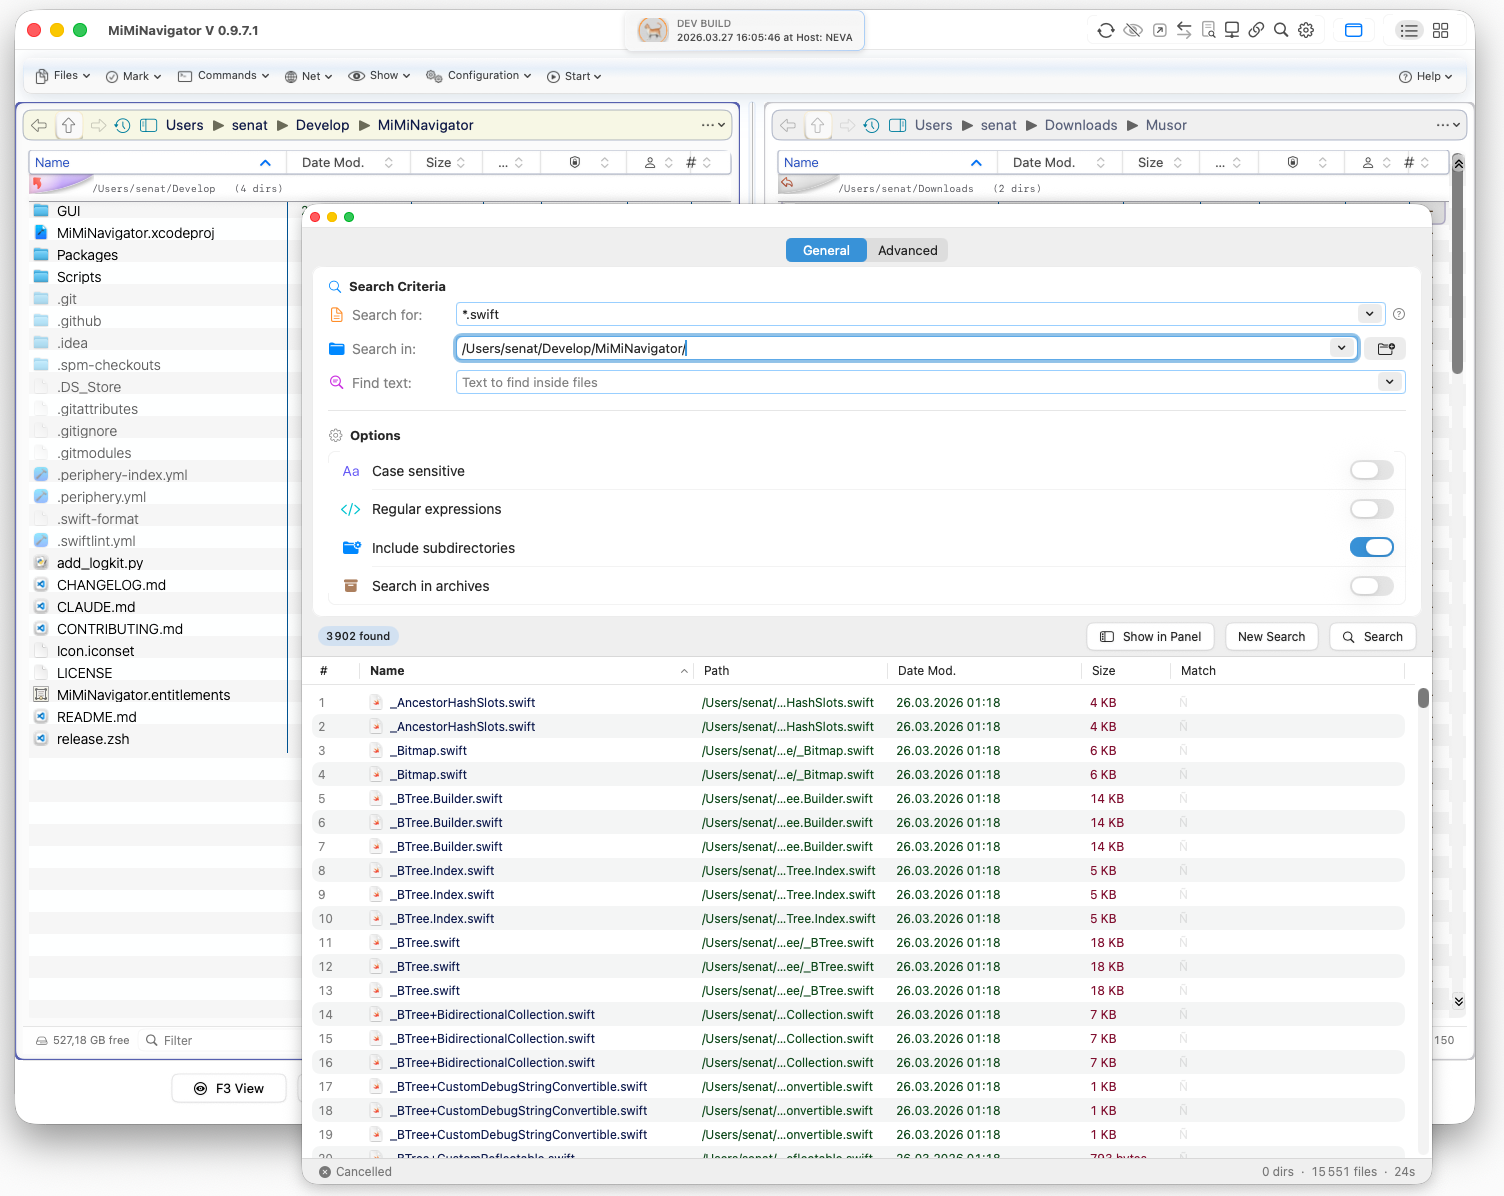
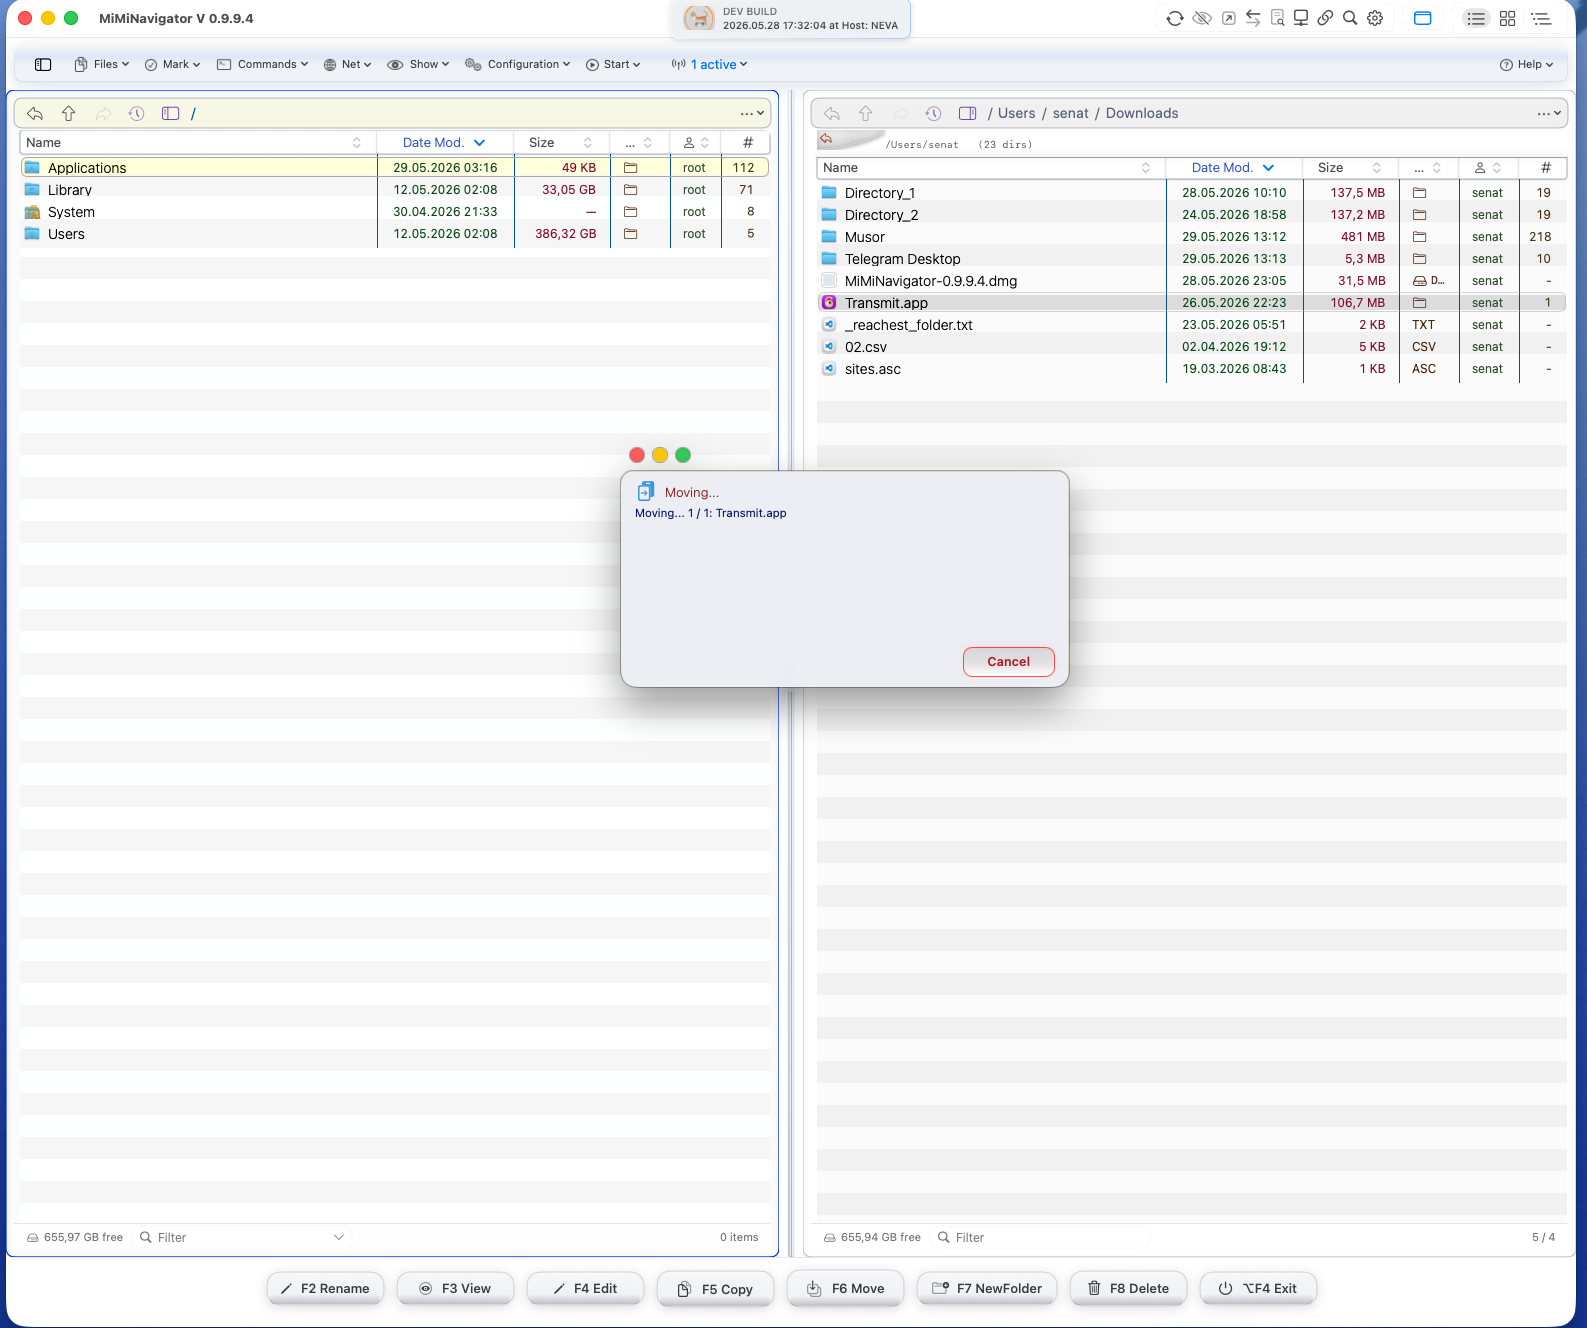
fix breadcrumb truncation priority and cleanup counters; shrink segments from original names, preserve useful edge context while paths compress, refresh preview/version assets, and make strange-attr cleanup counters zsh-safe

diff --git a/GUI/Sources/BreadCrumbNav/BreadCrumbView+Segments.swift b/GUI/Sources/BreadCrumbNav/BreadCrumbView+Segments.swift
@@ -52,14 +52,18 @@ extension BreadCrumbView {
         }
         var used = totalWidth
         while used > budgetForText {
-            guard let idx = segs.enumerated().filter({ $0.element.display.count > 3 }).max(by: { $0.element.priority < $1.element.priority })?.offset else { break }
+            guard let idx = shrinkCandidateIndex(in: segs) else { break }
             let old = segs[idx]
-            let newDisplay = truncMiddle(old.display, maxLen: max(3, old.display.count - 4))
+            let newDisplay = truncMiddle(old.name, maxLen: max(4, old.display.count - 4))
+            guard newDisplay.count < old.display.count else {
+                segs[idx].priority = 0
+                continue
+            }
             let newWidth = CGFloat(newDisplay.count) * charWidth
             used -= old.width - newWidth
             segs[idx].display = newDisplay
             segs[idx].width = newWidth
-            segs[idx].priority = 0
+            segs[idx].priority = shrinkPriority(index: old.index, total: components.count, len: newDisplay.count)
         }
         return segs.map {
             DisplaySegment(
@@ -197,6 +201,13 @@ extension BreadCrumbView {
             }
     }
 
+    private func shrinkCandidateIndex(in segments: [BreadCrumbMeasuredSegment]) -> Int? {
+        segments.enumerated()
+            .filter { $0.element.display.count > 4 && $0.element.priority > 0 }
+            .max { $0.element.priority < $1.element.priority }?
+            .offset
+    }
+
     private func showsSeparatorBefore(index: Int, components: [BreadCrumbDisplayComponent]) -> Bool {
         index > 0 && components[index - 1].text != "/"
     }
@@ -206,10 +217,20 @@ extension BreadCrumbView {
         return len * 10
     }
 
+    private func shrinkPriority(index: Int, total: Int, len: Int) -> Int {
+        guard index != 0 else { return 0 }
+        let edgePenalty = index == total - 1 ? 0 : 1_000
+        return edgePenalty + len * 10
+    }
+
     private func truncMiddle(_ s: String, maxLen: Int) -> String {
         guard s.count > maxLen, maxLen >= 3 else { return s }
-        let half = (maxLen - 1) / 2
-        return "\(s.prefix(half))...\(s.suffix(half))"
+        if maxLen == 3 { return "..." }
+        let marker = "..."
+        let keep = maxLen - marker.count
+        let head = max(1, (keep + 1) / 2)
+        let tail = max(0, keep - head)
+        return "\(s.prefix(head))\(marker)\(s.suffix(tail))"
     }
 }
 